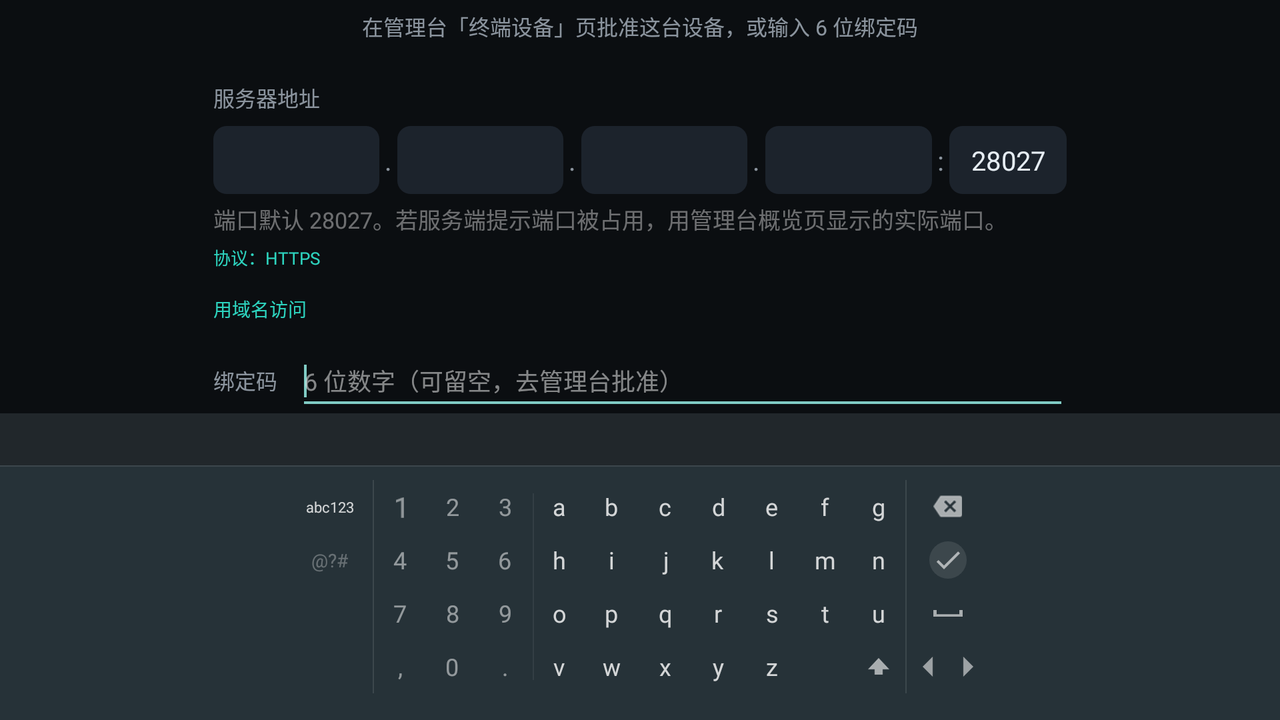
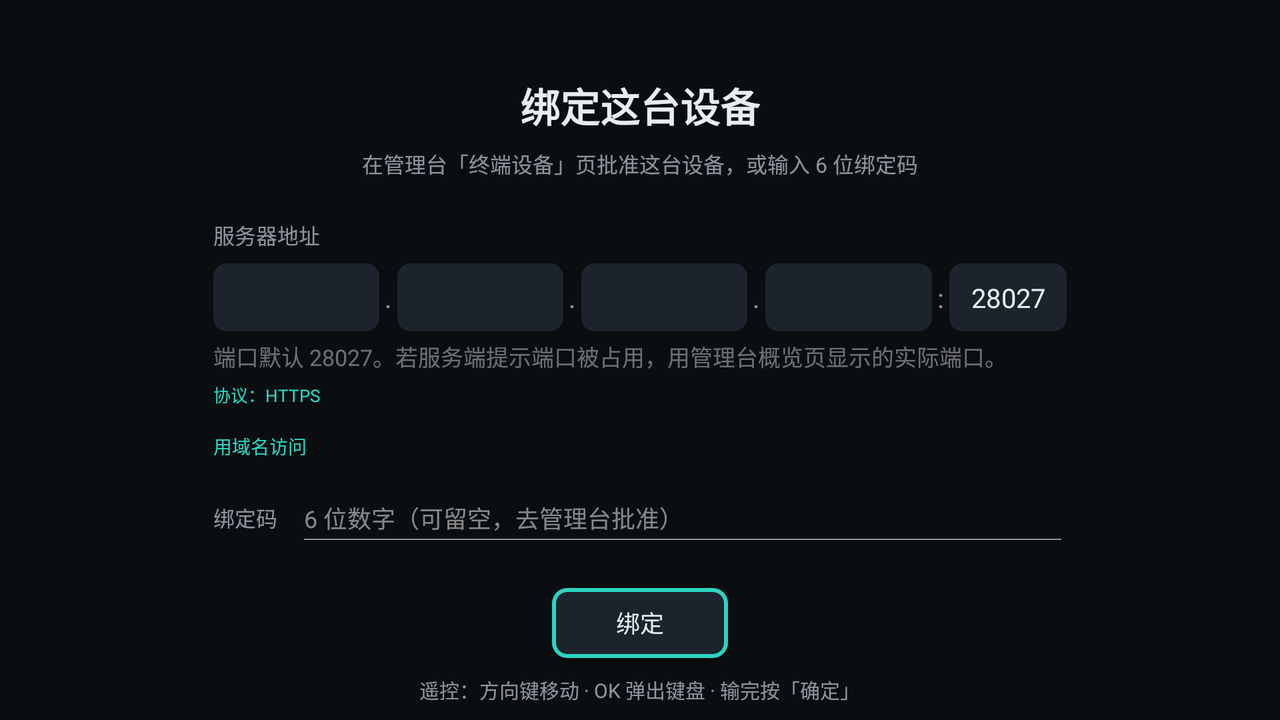
docs: 补 Android 模拟器验证（两端 flavor 实拍 + 键盘交互）
本机装 JDK 17.0.21 + Gradle 8.14.6，用 AEHD 加速跑 litvtv/litvphone 两个 AVD：
- TV: com.litv.tv.debug -> BindActivity 1629ms，方向键移焦点、OK 弹应用内键盘
- 手机: com.litv.tv.phone.debug -> BindActivity 1503ms
- 两端本包 FATAL 均为 0；截图入 docs/images/client/
- 明确写出未验证项：播放链路、绑定到首页、API 29+ 行为、release/R8
- 顺带记录 debug 包名带 .debug 后缀、TV 系统 DVR 崩溃与本项目无关两个坑

diff --git a/docs/design/03-Android模拟器验证.md b/docs/design/03-Android模拟器验证.md
@@ -1,0 +1,143 @@
+# 03 · Android 模拟器验证（两端 flavor）
+
+> 本文记录**一次真实执行过的验证**：在本机 Android 模拟器上装 x86 调试包，
+> 启动 TV 与手机两个 flavor，确认界面渲染、遥控器交互、无崩溃。
+> 每条结论都附当时的命令或输出。没做的部分单列在最后一节。
+
+## 一、为什么要本地跑
+
+`AGENTS.md` §8 规定编译走 GitHub Actions，但那条规则的目的是「不要为了编译而搭工具链」，
+不是为了禁止本地验证。这次的情况是：**CI 只能告诉你编过了，不能告诉你界面长什么样**。
+模拟器能看到界面、能按方向键、能截图，这些 CI 给不了。
+
+本机原本没有任何 Android 构建环境，所以先装了 JDK 与 Gradle。
+
+## 二、环境（本机实装）
+
+> 具体安装路径不写进仓库（AGENTS §8）。下面的命令一律用环境变量，
+> 换台机器只要 `JAVA_HOME` / `ANDROID_HOME` 指对就能跑。
+
+| 组件 | 版本 | 由谁提供 |
+|---|---|---|
+| JDK | Temurin **17.0.21** | `JAVA_HOME` |
+| Gradle | **8.14.6** | `PATH` 里的 `gradle` |
+| Android SDK | platform **35** / build-tools **35.0.0**（另有 34） | `ANDROID_HOME` |
+| 模拟器加速 | **AEHD 2.2**（`emulator -accel-check` → `AEHD is installed and usable`） | 随 emulator 安装 |
+| AVD | `litvtv`、`litvphone`（API 28 / x86） | `emulator -list-avds` |
+
+`android/local.properties` 需要一行 `sdk.dir=<你的 SDK 路径>`。
+该文件已在 `.gitignore` 里，**不要提交**——提交了就把本机路径写死了。
+
+> 为什么用 API 28 的镜像：本机只装了 `system-images;android-28;android-tv;x86` 与 `android-28;default;x86`。
+> 工程 `minSdk = 21`，所以 API 28 是合法目标；但**它低于 `targetSdk = 35`**，
+> 高版本行为变更（分区存储、通知权限弹窗等）在 API 28 上不会出现——见第五节。
+
+## 三、编译
+
+```bash
+export JAVA_HOME="<你的 JDK 17 路径>"
+export ANDROID_HOME="<你的 Android SDK 路径>"
+cd android
+gradle --no-daemon assembleTvDebug assemblePhoneDebug
+```
+
+结果：`BUILD SUCCESSFUL in 1m 25s`（82 tasks，61 executed / 21 cached）。
+
+产物（每个 flavor 三个 ABI，x86 那份才是模拟器能装的）：
+
+```
+app/build/outputs/apk/tv/debug/app-tv-x86-debug.apk          58 MB
+app/build/outputs/apk/phone/debug/app-phone-x86-debug.apk    58 MB
+```
+
+> **坑**：debug 构建的 applicationId 带 `.debug` 后缀——
+> 实际包名是 `com.litv.tv.debug` 与 `com.litv.tv.phone.debug`，不是 `com.litv.tv`。
+> 用 `aapt2 dump badging` 才能确认，别照抄文档里的正式包名。
+
+## 四、跑起来
+
+```bash
+A=$ANDROID_HOME/platform-tools/adb
+$ANDROID_HOME/emulator/emulator -avd litvtv -accel on \
+  -no-window -no-audio -no-boot-anim -gpu swiftshader_indirect -no-snapshot &
+$A wait-for-device
+# 等 sys.boot_completed = 1（实测约 20 秒）
+$A install -r -t app/build/outputs/apk/tv/debug/app-tv-x86-debug.apk
+$A shell am start -W -n com.litv.tv.debug/com.litv.tv.ui.LauncherActivity
+```
+
+手机端同理，换 `litvphone` + `app-phone-x86-debug.apk` + `com.litv.tv.phone.debug`，
+并加 `-port 5556` 与两台并行。
+
+### 实测结果
+
+| 项 | TV（`litvtv`） | 手机（`litvphone`） |
+|---|---|---|
+| 包名 | `com.litv.tv.debug` | `com.litv.tv.phone.debug` |
+| 首次启动落到 | `BindActivity` | `BindActivity` |
+| `am start -W` TotalTime | **1629 ms** | **1503 ms** |
+| 清数据后 | 仍进 `BindActivity` | 仍进 `BindActivity` |
+| 本包 `FATAL EXCEPTION` | **0** | **0** |
+| 分辨率 | 1920×1080 | 1080×1920 |
+
+两个 flavor 在**同一份代码**下落到同一个入口，说明「界面形态按 flavor 分流」这条没有开叉。
+
+### 遥控器交互（TV 端）
+
+TV 端没有触摸，只能靠方向键。实测：
+
+| 操作 | 结果 |
+|---|---|
+| `DPAD_UP` ×2 + `OK` | 焦点移到「协议」并把 `HTTPS` 切成 `HTTP`——说明方向键能移焦点、OK 能触发控件 |
+| 再 `DPAD_UP` + `OK`（落在地址框） | 弹出**应用内屏幕键盘**：标题「服务器地址 · 第 1 格」，数字行 1–0、字母 a–z、`.` `-`，底部 `上一格 / 删除 / 清空 / 下一格 / 确定` |
+
+这块是历史上出过事的地方（见 [电视输入复盘](../postmortem/POSTMORTEM_2026-11-12_tv-input.md)），
+所以值得单独验一次：**分段输入 + 逐格跳转是通的**。
+
+> 注意：那个键盘是**应用内自绘**的 View，不是系统 IME。
+> 所以 `dumpsys input_method` 里 `mInputShown=false` 属正常现象，别据此判断「键盘没弹出来」。
+
+## 五、没验证的部分（重要）
+
+| 项 | 为什么没验 | 怎么补 |
+|---|---|---|
+| **播放链路** | 本地没有跑着的 LITV 服务端，也没有源 | 起一个服务端（或指向现有 NAS），绑定后在模拟器里实际起播 |
+| 绑定 → 批准 → 进首页 | 同上，需要服务端配合 | 同上 |
+| 高版本行为（API 29+） | 本机只有 API 28 镜像 | `sdkmanager` 装 `system-images;android-35;...` 后另建 AVD |
+| release 包 / R8 | 只编了 debug | `assembleRelease` 需要签名配置，属另一轮 |
+| TV 真实焦点流（横跨整页） | 只验了绑定页这一段 | 接上服务端后在频道页、播放页逐格走 |
+
+**已验的部分只覆盖「能装、能起、能画、能按、不崩」，不等于「功能可用」。**
+
+## 六、一个容易误判的现象
+
+跑 TV 镜像时，`logcat` 里会出现 `com.android.tv.dvr` 的 `FATAL EXCEPTION`：
+
+```
+java.lang.RuntimeException: An error occurred while executing doInBackground()
+Caused by: android.database.sqlite.SQLiteException: no such column: failed_reason
+```
+
+那是 **Android TV 系统自带的 DVR 应用**（`com.android.tv.dvr`，进程号与我们的包无关）在
+API 28 镜像上的已知问题，不是本项目的崩溃。判断「我们的 App 有没有崩」必须按包名过滤：
+
+```bash
+adb logcat -d | grep -iE "com\.litv" | grep -iE "FATAL|Exception"
+```
+
+## 七、复现
+
+```bash
+export JAVA_HOME="<你的 JDK 17 路径>" ANDROID_HOME="<你的 Android SDK 路径>"
+cd android && gradle --no-daemon assembleTvDebug assemblePhoneDebug
+$ANDROID_HOME/emulator/emulator -avd litvtv -accel on -no-window -no-audio \
+  -no-boot-anim -gpu swiftshader_indirect -no-snapshot &
+$ANDROID_HOME/platform-tools/adb wait-for-device
+$ANDROID_HOME/platform-tools/adb install -r -t \
+  app/build/outputs/apk/tv/debug/app-tv-x86-debug.apk
+$ANDROID_HOME/platform-tools/adb shell am start -W \
+  -n com.litv.tv.debug/com.litv.tv.ui.LauncherActivity
+$ANDROID_HOME/platform-tools/adb exec-out screencap -p > tv.png
+```
+
+截图存于 [`docs/images/client/`](../images/client/)：`tv-bind.png`、`tv-keyboard.png`、`phone-bind.png`。

diff --git a/docs/README.md b/docs/README.md
@@ -26,7 +26,8 @@
 |---|---|---|
 | [`design/00-总体方案.md`](design/00-总体方案.md) | 模块职责、三条主链路、CI 八条工作流 | 现状 |
 | [`design/01-API.md`](design/01-API.md) | 信封、错误码、认证三档、92 条路由表（脚本抽取，带行号） | 现状 |
-| [`design/02-iOS构建现状.md`](design/02-iOS构建现状.md) | iOS 工程结构、会话测试目标、C05 未实现的具体位置 | 现状 |
+| [`design/02-iOS构建现状.md`](design/02-iOS构建现状.md) | iOS 工程结构、会话测试目标、C05 修复方式与残留局限 | 现状 |
+| [`design/03-Android模拟器验证.md`](design/03-Android模拟器验证.md) | 本机模拟器（AEHD 加速）跑两个 flavor 的实拍与结果 | 现状 |
 | [`review/STATUS.md`](review/STATUS.md) | **唯一**的评审项状态源：已确认 / 待验证 / 未复核 | 现状 |
 | [`postmortem/POSTMORTEM_2026-11-12_tv-input.md`](postmortem/POSTMORTEM_2026-11-12_tv-input.md) | 电视输入事故复盘 | 历史 |
 | [`postmortem/POSTMORTEM_2026-11-13_agent-session.md`](postmortem/POSTMORTEM_2026-11-13_agent-session.md) | 文档重写与仓库重建过程中 AI 助手做错的事 | 历史 |
